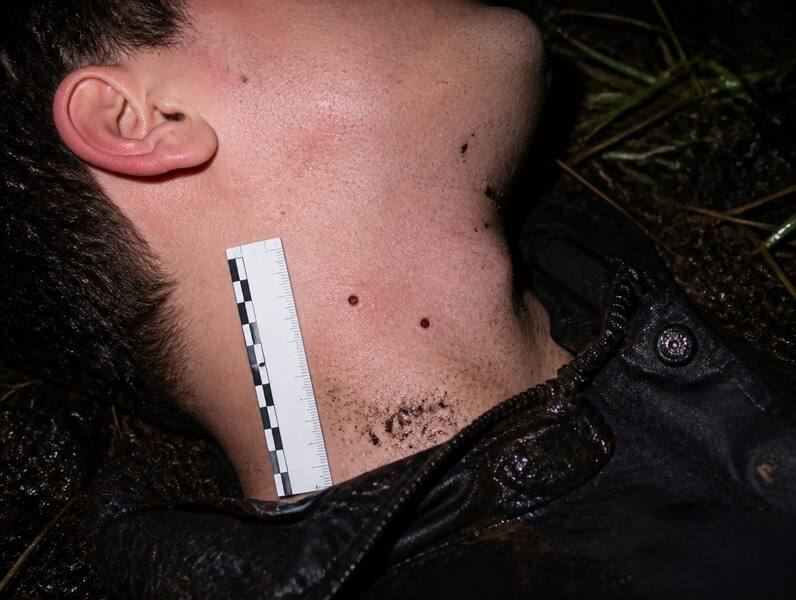
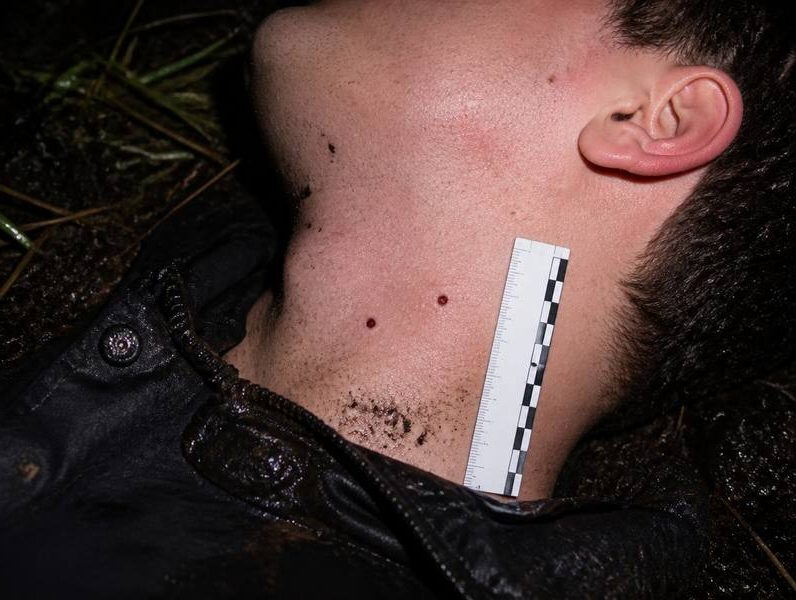
Caso: correcciones del feedback de la prueba en vivo (parte E01, luces, pregunta 8, croquis, diésel, foto del cuello)
- E01: parte a las 10:20 con la llegada del SML (09:30) y el retiro del cuerpo (10:00)
- J4 (luces en el cielo) sale del menú del Sobre 1; Rosa menciona el dron con lucecitas y E09 anota sus luces de posición
- Hoja de acusación: pregunta 8 reescrita (cosas raras que no tienen que ver con el crimen)
- Croquis E05: Javiera en la orilla del camino, como en el live
- E19-B: boleta con diésel (la camioneta es doble cabina)
- E02 foto 2: espejada para que coincida con el lado izquierdo del texto

Claude-Session: https://claude.ai/code/session_01E2xvBYVY4eGddf1zhL3Ewi

diff --git a/tests/snapshots/chupacabras-labranza/es/02_Sobre_1.html b/tests/snapshots/chupacabras-labranza/es/02_Sobre_1.html
@@ -13,7 +13,7 @@
 <div class="oc-membrete__inst"><b>Policía de Investigaciones de Chile (PDI)</b>Brigada de Homicidios (BH) Temuco · Parte policial</div><span class="oc-codigo">E01</span></div>
 <h2>Parte N° 4471 · Hallazgo de cadáver</h2>
 <div class="oc-meta">
-<div><span>Fecha y hora del parte</span>Sábado 31-10-2026, 07:42</div>
+<div><span>Fecha y hora del parte</span>Sábado 31-10-2026, 10:20</div>
 <div><span>Lugar</span>Parcela El Arrayán, Camino Los Copihues km 3,2, Labranza, Temuco</div>
 <div><span>Denunciante</span>Cristián Lagos Jara, 24 años, cuidador de la parcela</div>
 <div><span>Fiscalía</span>Fiscalía Local de Temuco, fiscal de turno</div></div>
@@ -24,7 +24,7 @@
 
 <h3>Relato</h3>
 
-<p>A las 07:10 el denunciante llega a alimentar a los animales y encuentra el cuerpo junto al corral. Llama al 133. Carabineros llega a las 07:31, aísla el sitio y da cuenta a la Fiscalía, que instruye a esta Brigada. Personal de la BH llega a las 08:15. La vecina del frente, Rosa Huenchumilla, puede ser entrevistada.</p>
+<p>A las 07:10 el denunciante llega a alimentar a los animales y encuentra el cuerpo junto al corral. Llama al 133. Carabineros llega a las 07:31, aísla el sitio y da cuenta a la Fiscalía de turno, que instruye a esta Brigada y ordena el levantamiento del cadáver. Personal de la BH llega a las 08:15. El Servicio Médico Legal (SML) llega a las 09:30, constata el fallecimiento y retira el cuerpo a las 10:00 para la autopsia. La vecina del frente, Rosa Huenchumilla, puede ser entrevistada.</p>
 
 <h3>Observaciones en el sitio</h3>
 
@@ -48,7 +48,7 @@
 
 <div class="oc-firma">
 <div><span class="oc-firma__trazo oc-firma__trazo--svg">
-<svg class="oc-firma__svg" viewBox="0 0 90 40" role="img" aria-label="Firma de I. Painemal"><g fill="none" stroke="currentColor" stroke-width="1.4" stroke-linecap="round" stroke-linejoin="round"><path d="M4.9 36.5L17.4 3L20.9 16.8L21.2 36.8L35 13.5L37.4 33.7L48.1 11.6L49.5 36.2L63.2 10.4L62.3 37"/><path d="M3 21C8.8 20.7 25.4 19.4 37.9 19.1C50.5 18.7 71.6 19 78.4 18.9"/><path d="M86.7 24.3h0.6"/></g></svg></span><span>Comisario a cargo</span></div><span>Diligencias pendientes: autopsia (Servicio Médico Legal, SML), empadronamiento</span></div>
+<svg class="oc-firma__svg" viewBox="0 0 90 40" role="img" aria-label="Firma de I. Painemal"><g fill="none" stroke="currentColor" stroke-width="1.4" stroke-linecap="round" stroke-linejoin="round"><path d="M4.9 36.5L17.4 3L20.9 16.8L21.2 36.8L35 13.5L37.4 33.7L48.1 11.6L49.5 36.2L63.2 10.4L62.3 37"/><path d="M3 21C8.8 20.7 25.4 19.4 37.9 19.1C50.5 18.7 71.6 19 78.4 18.9"/><path d="M86.7 24.3h0.6"/></g></svg></span><span>Comisario a cargo</span></div><span>Diligencias pendientes: autopsia (SML), empadronamiento</span></div>
 <div class="oc-hoja__marca">
 <img src="{REPO}/design/logos/oc-monograma-tinta.svg" alt="Open Case"><span>Open Case</span><span>El Chupacabras de Labranza</span></div></article>
 <article class="oc-hoja" id="E02">
@@ -148,8 +148,8 @@
 <circle cx="350" cy="140" fill="#9e2a2b" r="8"></circle><text fill="#9e2a2b" font-size="11" x="362" y="164">cuerpo</text>
 <g fill="#fff" stroke="#555"><circle cx="420" cy="225" r="3"></circle><circle cx="432" cy="225" r="3"></circle><circle cx="444" cy="225" r="3"></circle><circle cx="468" cy="225" r="3"></circle><circle cx="480" cy="225" r="3"></circle></g><text font-size="10" x="398" y="244">piedras blancas</text>
 <rect fill="#6d5a3a" height="6" width="110" x="400" y="218"></rect><text font-size="10" x="514" y="228">portón</text>
-<circle cx="255" cy="110" fill="#1d3557" r="7"></circle><text fill="#1d3557" font-size="11" x="160" y="100">Javiera (cerco)</text>
-<line stroke="#1d3557" stroke-dasharray="3 3" x1="262" x2="342" y1="112" y2="138"></line>
+<circle cx="300" cy="226" fill="#1d3557" r="7"></circle><text fill="#1d3557" font-size="11" x="200" y="284">Javiera (cerco, orilla del camino)</text>
+<line stroke="#1d3557" stroke-dasharray="3 3" x1="308" x2="440" y1="224" y2="196"></line>
 <rect fill="#e3e6d4" height="90" stroke="#7b8a5f" width="150" x="380" y="290"></rect><text font-weight="600" x="390" y="312">Casa Doña Rosa</text><text font-size="11" x="390" y="330">frente a El Arrayán</text>
 <text font-size="11" x="646" y="254">→ Labranza 3 km</text><text font-size="11" x="646" y="270">(Copec) · Temuco 12</text>
 <text font-size="11" x="12" y="300">← hacia Boroa</text>

diff --git a/tests/snapshots/chupacabras-labranza/es/02_Pruebas.html b/tests/snapshots/chupacabras-labranza/es/02_Pruebas.html
@@ -81,7 +81,7 @@
 <img src="{REPO}/cases/chupacabras-labranza/photos/e09_2246.jpg" alt="Patio de la casa de Doña Rosa visto desde el aire" loading="eager"></div><figcaption><b>22:46</b> · Despegue desde el patio de Doña Rosa.</figcaption></figure>
 <figure class="oc-foto">
 <div class="oc-foto__cuadro">
-<img src="{REPO}/cases/chupacabras-labranza/photos/e09_2250.jpg" alt="Vista aérea de El Arrayán: caseta iluminada con una persona en la ventana, la SUV blanca y la oveja muerta en el corral" loading="eager"></div><figcaption><b>22:50</b> · Sobre El Arrayán: caseta con la luz encendida y una SUV blanca estacionada. En el video, una sombra se mueve detrás de la ventana. Junto al corral no hay nadie; se ve la oveja muerta del jueves.</figcaption></figure>
+<img src="{REPO}/cases/chupacabras-labranza/photos/e09_2250.jpg" alt="Vista aérea de El Arrayán: caseta iluminada con una persona en la ventana, la SUV blanca y la oveja muerta en el corral" loading="eager"></div><figcaption><b>22:50</b> · Sobre El Arrayán: caseta con la luz encendida y una SUV blanca estacionada. El dron lleva dos luces de posición, visibles desde lejos. En el video, una sombra se mueve detrás de la ventana. Junto al corral no hay nadie; se ve la oveja muerta del jueves.</figcaption></figure>
 <figure class="oc-foto">
 <div class="oc-foto__cuadro">
 <img src="{REPO}/cases/chupacabras-labranza/photos/e09_2254.jpg" alt="Punto de luz de un celular junto a un cerco" loading="eager"></div><figcaption><b>22:54</b> · La luz del celular de Javiera, junto al cerco de Don Hernán.</figcaption></figure></div>
@@ -793,7 +793,7 @@ M.F. dice que &quot;no alarmemos a la gente&quot;.</div>
 <h2>Ropa y zapatos</h2>
 <p>La chaqueta que usó el viernes fue <strong>lavada el sábado en la mañana</strong>. En las suelas de los zapatos hay barro con gravilla y <strong>pequeñas escamas de pintura blanca</strong>. No se detecta sangre a simple vista.</p>
 
-<p>En la billetera, entre los billetes, una <strong>boleta de Copec Labranza</strong>: viernes 30-10, <strong>22:52</strong>, bomba 2, bencina 93, pagada en efectivo. En el pantalón no hay otros papeles.</p>
+<p>En la billetera, entre los billetes, una <strong>boleta de Copec Labranza</strong>: viernes 30-10, <strong>22:52</strong>, bomba 2, diésel, pagada en efectivo. En el pantalón no hay otros papeles.</p>
 <div class="oc-hoja__marca">
 <img src="{REPO}/design/logos/oc-monograma-tinta.svg" alt="Open Case"><span>Open Case</span><span>El Chupacabras de Labranza</span></div></article>
 <article class="oc-hoja" id="E19-C">

diff --git a/tests/snapshots/chupacabras-labranza/es/03_Tarjetas_de_respuesta.html b/tests/snapshots/chupacabras-labranza/es/03_Tarjetas_de_respuesta.html
@@ -355,11 +355,11 @@
 <div class="oc-tarjeta__pregunta">¿Matías le pagó alguna vez por algo?</div>
 <div class="oc-tarjeta__respuesta">"…Una asesoría. Por los animales. Nada raro."</div>
 <div class="oc-tarjeta__marca"><span>Open Case</span><span>El Chupacabras de Labranza</span></div></div>
-<div class="oc-tarjeta oc-tarjeta--testigo" data-code="R1" data-length="258">
+<div class="oc-tarjeta oc-tarjeta--testigo" data-code="R1" data-length="282">
 <div class="oc-tarjeta__banda"></div>
 <div class="oc-tarjeta__cab"><b>R1</b><span>Rosa Huenchumilla</span></div>
 <div class="oc-tarjeta__pregunta">¿Qué escuchó esa noche?</div>
-<div class="oc-tarjeta__respuesta">"A las nueve y media, balazos: era el vecino con los perros. A las once y diez, un auto. Después un portazo y los perros ladrando. Se fue antes de la lluvia, como a las once y media. Ah, y el Kevin, mi nieto, andaba con ese aparato volador que le regalaron."</div>
+<div class="oc-tarjeta__respuesta">"A las nueve y media, balazos: era el vecino con los perros. A las once y diez, un auto. Después un portazo y los perros ladrando. Se fue antes de la lluvia, como a las once y media. Ah, y el Kevin, mi nieto, andaba con ese aparato volador, un dron con lucecitas, que le regalaron."</div>
 <div class="oc-tarjeta__marca"><span>Open Case</span><span>El Chupacabras de Labranza</span></div></div>
 <div class="oc-tarjeta oc-tarjeta--testigo" data-code="R2" data-length="189">
 <div class="oc-tarjeta__banda"></div>

diff --git a/tests/snapshots/chupacabras-labranza/es/01_Kit_del_equipo.html b/tests/snapshots/chupacabras-labranza/es/01_Kit_del_equipo.html
@@ -262,7 +262,6 @@
 <tr><td class="c">J1</td><td>¿Dónde estuvo el viernes en la noche?</td></tr>
 <tr><td class="c">J2</td><td>¿Qué vio a las 23:10?</td></tr>
 <tr><td class="c">J3</td><td>¿Cómo supo que tenía que ir a El Arrayán?</td></tr>
-<tr><td class="c">J4</td><td>¿Qué eran las luces en el cielo?</td></tr>
 <tr><td class="c">J◆</td><td>Confrontar con una prueba (indiquen cuál)</td></tr></tbody></table></div>
 <div class="oc-quien">Pía Sandoval · ex pareja de la víctima</div>
 <div class="oc-tabla oc-tabla--menu">
@@ -519,7 +518,7 @@
 <div class="oc-campo-hoja"><label>
 <ol start="8">
 
-<li>Pistas falsas explicadas: pista → prueba que la explica</li>
+<li>Cosas raras que vimos y que NO tienen que ver con el crimen. Escriban cada una y el código de la prueba que muestra por qué no importaba. Ejemplo: «el ruido de la lavadora → E00».</li>
 </ol></label>
 <div class="oc-caja" style="min-height:110px"></div></div>
 <div class="oc-hoja__marca">

diff --git a/tests/snapshots/chupacabras-labranza/es/10_Tarjetas_de_sospechosos.html b/tests/snapshots/chupacabras-labranza/es/10_Tarjetas_de_sospechosos.html
@@ -51,7 +51,7 @@
 <div>Lo conoció grabando</div><span>Vive en</span>
 <div>Villa en Labranza</div><span>Descripción</span>
 <div>1,60 m, pelo negro con mechas moradas</div></div>
-<div class="oc-tarjeta__pie oc-tarjeta__pie--seg">Preguntas: J1–J4 · J◆</div>
+<div class="oc-tarjeta__pie oc-tarjeta__pie--seg">Preguntas: J1–J3 · J◆</div>
 <div class="oc-tarjeta__marca"><span>Open Case</span><span>El Chupacabras de Labranza</span></div></div></div>
 <div class="oc-tarjeta oc-tarjeta--rotada">
 <div class="oc-tarjeta oc-tarjeta--vertical oc-tarjeta--sospechoso">

diff --git a/cases/chupacabras-labranza/languages/es/dossier/E01.md b/cases/chupacabras-labranza/languages/es/dossier/E01.md
@@ -6,7 +6,7 @@ title: Parte N° 4471 · Hallazgo de cadáver
 ---
 
 ```meta
-Fecha y hora del parte: Sábado 31-10-2026, 07:42
+Fecha y hora del parte: Sábado 31-10-2026, 10:20
 Lugar: Parcela El Arrayán, Camino Los Copihues km 3,2, Labranza, Temuco
 Denunciante: Cristián Lagos Jara, 24 años, cuidador de la parcela
 Fiscalía: Fiscalía Local de Temuco, fiscal de turno
@@ -18,7 +18,7 @@ Fiscalía: Fiscalía Local de Temuco, fiscal de turno
 
 ### Relato
 
-A las 07:10 el denunciante llega a alimentar a los animales y encuentra el cuerpo junto al corral. Llama al 133. Carabineros llega a las 07:31, aísla el sitio y da cuenta a la Fiscalía, que instruye a esta Brigada. Personal de la BH llega a las 08:15. La vecina del frente, Rosa Huenchumilla, puede ser entrevistada.
+A las 07:10 el denunciante llega a alimentar a los animales y encuentra el cuerpo junto al corral. Llama al 133. Carabineros llega a las 07:31, aísla el sitio y da cuenta a la Fiscalía de turno, que instruye a esta Brigada y ordena el levantamiento del cadáver. Personal de la BH llega a las 08:15. El Servicio Médico Legal (SML) llega a las 09:30, constata el fallecimiento y retira el cuerpo a las 10:00 para la autopsia. La vecina del frente, Rosa Huenchumilla, puede ser entrevistada.
 
 ### Observaciones en el sitio
 
@@ -34,5 +34,5 @@ A las 07:10 el denunciante llega a alimentar a los animales y encuentra el cuerp
 
 ```signature
 - {signer: painemal, scrawl: I. Painemal, label: Comisario a cargo}
-- "Diligencias pendientes: autopsia (Servicio Médico Legal, SML), empadronamiento"
+- "Diligencias pendientes: autopsia (SML), empadronamiento"
 ```

diff --git a/cases/chupacabras-labranza/languages/es/dossier/E09.md b/cases/chupacabras-labranza/languages/es/dossier/E09.md
@@ -13,7 +13,7 @@ short: Dron
   alt: Patio de la casa de Doña Rosa visto desde el aire
 - image: photos/e09_2250.jpg
   title: "22:50"
-  text: "· Sobre El Arrayán: caseta con la luz encendida y una SUV blanca estacionada. En el video, una sombra se mueve detrás de la ventana. Junto al corral no hay nadie; se ve la oveja muerta del jueves."
+  text: "· Sobre El Arrayán: caseta con la luz encendida y una SUV blanca estacionada. El dron lleva dos luces de posición, visibles desde lejos. En el video, una sombra se mueve detrás de la ventana. Junto al corral no hay nadie; se ve la oveja muerta del jueves."
   alt: "Vista aérea de El Arrayán: caseta iluminada con una persona en la ventana, la SUV blanca y la oveja muerta en el corral"
 - image: photos/e09_2254.jpg
   title: "22:54"

diff --git a/cases/chupacabras-labranza/languages/es/dossier/E19-B.md b/cases/chupacabras-labranza/languages/es/dossier/E19-B.md
@@ -7,4 +7,4 @@ title: Ropa y zapatos
 
 La chaqueta que usó el viernes fue **lavada el sábado en la mañana**. En las suelas de los zapatos hay barro con gravilla y **pequeñas escamas de pintura blanca**. No se detecta sangre a simple vista.
 
-En la billetera, entre los billetes, una **boleta de Copec Labranza**: viernes 30-10, **22:52**, bomba 2, bencina 93, pagada en efectivo. En el pantalón no hay otros papeles.
+En la billetera, entre los billetes, una **boleta de Copec Labranza**: viernes 30-10, **22:52**, bomba 2, diésel, pagada en efectivo. En el pantalón no hay otros papeles.

diff --git a/cases/chupacabras-labranza/languages/es/kit/05-acusacion.md b/cases/chupacabras-labranza/languages/es/kit/05-acusacion.md
@@ -15,7 +15,7 @@ title: Nuestra teoría del caso
 - label: 6. Contradicciones del culpable que detectaron
 - label: 7. ¿Qué pasó con los ataques a los animales, y por qué?
   type: box
-- label: "8. Pistas falsas explicadas: pista → prueba que la explica"
+- label: "8. Cosas raras que vimos y que NO tienen que ver con el crimen. Escriban cada una y el código de la prueba que muestra por qué no importaba. Ejemplo: «el ruido de la lavadora → E00»."
   type: box
   height: 110px
 ```
